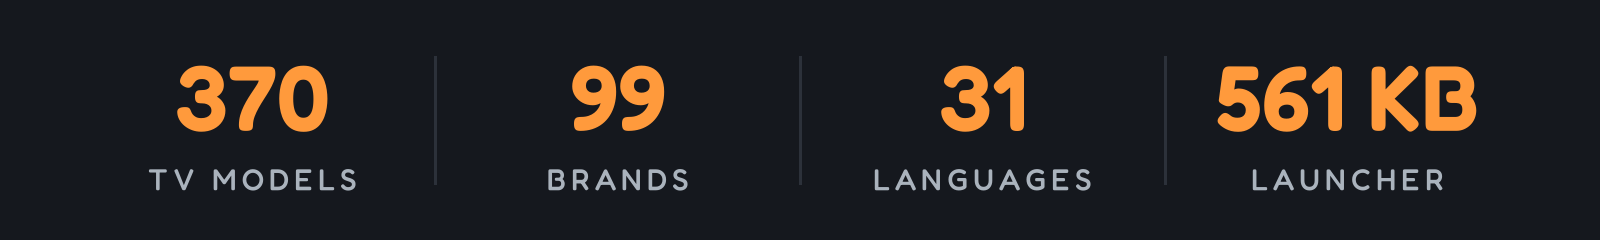
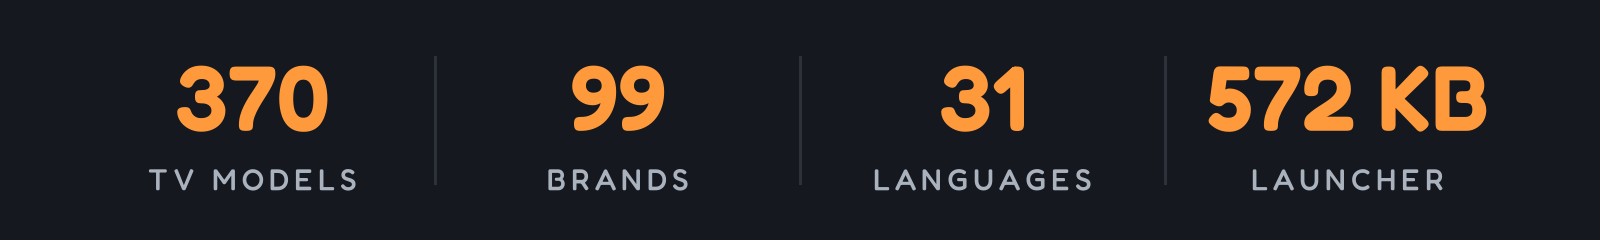
README: the launcher is about 572 KB after Round AK (585,489 B); cards redrawn

Changed region(s): [[0.75, 0.2625, 0.9375, 0.5542]]

diff --git a/tests/test_translation_recipe_gate.py b/tests/test_translation_recipe_gate.py
@@ -5,7 +5,7 @@ in `values/strings.xml`, so a full language is by far the largest thing a transl
 adds to `launcher/app/src/main/res/` - and the release APK has a hard budget:
 `.github/workflows/ci.yml`'s `launcher` job, which runs on every pull request in `launcher/`, measures
 `launcher/app/build/outputs/apk/release/app-release.apk` and fails the build at 589,824 B. The launcher
-ships just under that (README.md quotes about 561 KB), and #1271 is a full Korean translation that did
+ships just under that (README.md quotes about 572 KB), and #1271 is a full Korean translation that did
 not fit. Until now the page said nothing about it, so a translator could follow the recipe exactly and
 land a red build at a step the page never mentions.
 

diff --git a/tools/readme_stats.py b/tools/readme_stats.py
@@ -71,7 +71,7 @@ try:
 except ImportError:
     sys.exit("readme_stats.py needs Pillow: tools/venv/bin/pip install -r tools/requirements-perf.txt")
 
-STATS = [("370", "TV MODELS"), ("99", "BRANDS"), ("31", "LANGUAGES"), ("561 KB", "LAUNCHER")]
+STATS = [("370", "TV MODELS"), ("99", "BRANDS"), ("31", "LANGUAGES"), ("572 KB", "LAUNCHER")]
 W, H = 1600, 240
 img = Image.new("RGB", (W, H), "#15181e"); d = ImageDraw.Draw(img)
 def f(size, wt):

diff --git a/README.nl.md b/README.nl.md
@@ -26,7 +26,7 @@
 </p>
 
 <p align="center">
-  <a href="docs/PRESS.md"><img src="docs/card-halloween.jpg" alt="370 tv-modellen · 99 merken · 31 talen · launcher van 561 KB. Genoemd in TechCrunch, TechRadar, Tom's Guide, Mashable, Android Authority, XDA, FlatpanelsHD, It's FOSS, Phandroid, GIGAZINE, Xataka, WinFuture, Frandroid, Macitynet, Techaeris, TechPP en nog 298 media: 314 artikelen uit 44 landen. Voorheen: het standaard Google TV-startscherm met een gesponsorde advertentie. Daarna: de Clean Your TV-launcher." width="800"></a>
+  <a href="docs/PRESS.md"><img src="docs/card-halloween.jpg" alt="370 tv-modellen · 99 merken · 31 talen · launcher van 572 KB. Genoemd in TechCrunch, TechRadar, Tom's Guide, Mashable, Android Authority, XDA, FlatpanelsHD, It's FOSS, Phandroid, GIGAZINE, Xataka, WinFuture, Frandroid, Macitynet, Techaeris, TechPP en nog 298 media: 314 artikelen uit 44 landen. Voorheen: het standaard Google TV-startscherm met een gesponsorde advertentie. Daarna: de Clean Your TV-launcher." width="800"></a>
 </p>
 
 **De virale tweet:** [x.com/gathint/status/2111379569030939102](https://x.com/gathint/status/2111379569030939102)
@@ -561,7 +561,7 @@ tools/theme.sh themes/aurora                                 # push a theme; --r
 | [`tools/flamechart.py`](tools/flamechart.py) | Maakt voor een pull request een flame chart vóór en na de wijziging op basis van die traces: één baan per thread op een gedeelde tijdschaal, met het werk waarop de wijziging zich richt in magenta en met de totale duur. Optioneel, net als de trace-hulpmiddelen. [Handleiding](tools/flamechart.md). |
 | [`tools/screendiff.py`](tools/screendiff.py) | Vergelijkt schermafbeeldingen van vóór en na pixel voor pixel, laat de klok en alles wat je maskeert buiten beschouwing en slaat beide afbeeldingen op met de wifi-naam vervaagd. Optioneel, net als de trace-hulpmiddelen. [Handleiding](tools/screendiff.md). |
 | [`tools/race_calendar.py`](tools/race_calendar.py) | Schrijft de F1-kalender van dit seizoen in een thema voor de raceweekendmodus, via de gratis Jolpica-API. |
-| [`launcher/build-and-install.sh`](launcher/build-and-install.sh) | Bouwt een verkleinde release (ongeveer 561 KB), installeert deze, schakelt het startscherm om en draait de wijziging terug als de nieuwe launcher niet het startscherm wordt. |
+| [`launcher/build-and-install.sh`](launcher/build-and-install.sh) | Bouwt een verkleinde release (ongeveer 572 KB), installeert deze, schakelt het startscherm om en draait de wijziging terug als de nieuwe launcher niet het startscherm wordt. |
 
 De scripts zorgen er altijd voor dat de tv een startscherm-app behoudt: ze schakelen alleen een herkende standaardlauncher uit en slaan die app in een lijst over totdat een andere launcher op HOME reageert. Zie hieronder voor meer informatie.
 
@@ -609,7 +609,7 @@ De controle kan niet bewijzen wat de bedoeling is. `appops` laat zien dat een be
 <a id="the-launcher"></a>
 ## De launcher
 
-Een klein, native startscherm voor Android TV: **ongeveer 561 KB**, geschreven in gewone Java en ontworpen voor tv's met 1 GB RAM. Geen vervagingseffecten, geen video, geen netwerktoestemming en geen achtergrondservices.
+Een klein, native startscherm voor Android TV: **ongeveer 572 KB**, geschreven in gewone Java en ontworpen voor tv's met 1 GB RAM. Geen vervagingseffecten, geen video, geen netwerktoestemming en geen achtergrondservices.
 
 De **tv** moet Android 8.0 (API 26) of nieuwer gebruiken. `minSdk` stelt de minimale versie in tijdens het bouwen in [`launcher/app/build.gradle`](launcher/app/build.gradle). Het installatiescript vraagt vóór het bouwen de waarde van `ro.build.version.sdk` op, zodat een oudere tv beide versienummers te zien krijgt in plaats van pas bij `pm install` te mislukken. Zie [Problemen oplossen](docs/TROUBLESHOOTING.md) voor wat op zo'n tv nog mogelijk is.
 

diff --git a/README.de.md b/README.de.md
@@ -20,7 +20,7 @@
 </p>
 
 <p align="center">
-  <a href="docs/PRESS.md"><img src="docs/card-halloween.jpg" alt="370 TV-Modelle · 99 Marken · 31 Sprachen · Launcher mit 561 KB. Erwähnt in TechCrunch, TechRadar, Tom's Guide, Mashable, Android Authority, XDA, FlatpanelsHD, It's FOSS, Phandroid, GIGAZINE, Xataka, WinFuture, Frandroid, Macitynet, Techaeris, TechPP und 298 weitere: 314 Artikel aus 44 Ländern. Vorher: der Google-TV-Startbildschirm mit einer bezahlten Anzeige. Nachher: der Clean-Your-TV-Launcher." width="800"></a>
+  <a href="docs/PRESS.md"><img src="docs/card-halloween.jpg" alt="370 TV-Modelle · 99 Marken · 31 Sprachen · Launcher mit 572 KB. Erwähnt in TechCrunch, TechRadar, Tom's Guide, Mashable, Android Authority, XDA, FlatpanelsHD, It's FOSS, Phandroid, GIGAZINE, Xataka, WinFuture, Frandroid, Macitynet, Techaeris, TechPP und 298 weitere: 314 Artikel aus 44 Ländern. Vorher: der Google-TV-Startbildschirm mit einer bezahlten Anzeige. Nachher: der Clean-Your-TV-Launcher." width="800"></a>
 </p>
 
 ## Einstieg
@@ -192,7 +192,7 @@ tools/theme.sh themes/aurora                                 # ein Theme aufspie
 | [`tools/flamechart.py`](tools/flamechart.py) | Zeichnet aus diesen Traces ein Vorher/Nachher-Flammendiagramm für einen Pull Request: eine Spur je Thread auf gemeinsamer Zeitachse, die Arbeit, die eine Änderung trifft, in Magenta mit ihrer Summe. Optional, wie die Trace-Werkzeuge. [Anleitung](tools/flamechart.md). |
 | [`tools/screendiff.py`](tools/screendiff.py) | Vergleicht ein Vorher- und ein Nachher-Bild Pixel für Pixel, lässt die Uhr oder das aus, was du maskierst, und schreibt das Paar mit unkenntlich gemachtem WLAN-Namen. Optional, wie die Trace-Werkzeuge. [Anleitung](tools/screendiff.md). |
 | [`tools/race_calendar.py`](tools/race_calendar.py) | Schreibt den F1-Kalender dieser Saison in ein Theme für den Rennwochenend-Modus, aus der freien Jolpica-API. |
-| [`launcher/build-and-install.sh`](launcher/build-and-install.sh) | Baut ein geschrumpftes Release (etwa 561 KB), installiert es, schaltet Home um und rollt zurück, wenn Home nicht darauf landet. |
+| [`launcher/build-and-install.sh`](launcher/build-and-install.sh) | Baut ein geschrumpftes Release (etwa 572 KB), installiert es, schaltet Home um und rollt zurück, wenn Home nicht darauf landet. |
 
 Die Skripte lassen den Fernseher nie ohne Home-App: sie deaktivieren nur einen Hersteller-Launcher, den sie erkennen,
 und überspringen die Home-App in einer Liste, bis ein anderer Launcher auf HOME antwortet. Eigene Listen können außerhalb
@@ -247,7 +247,7 @@ Debloat-Liste. Was die Prüfung nicht kann, ist Absicht beweisen: [docs/privacy.
 
 ## Der Launcher
 
-Ein kleiner nativer Startbildschirm für Android TV: **etwa 561 KB**, einfaches Java, gebaut für Fernseher mit 1 GB RAM.
+Ein kleiner nativer Startbildschirm für Android TV: **etwa 572 KB**, einfaches Java, gebaut für Fernseher mit 1 GB RAM.
 Kein Weichzeichnen, kein Video, keine Netzwerkberechtigung, keine Hintergrunddienste. Der **Fernseher** braucht Android 8.0 (API 26)
 oder neuer, das `minSdk` in [`launcher/app/build.gradle`](launcher/app/build.gradle); was auf einem älteren
 Gerät übrig bleibt, steht in der [Fehlerbehebung](docs/TROUBLESHOOTING.md).

diff --git a/README.md b/README.md
@@ -24,7 +24,7 @@
 </p>
 
 <p align="center">
-  <a href="docs/PRESS.md"><img src="docs/card-halloween.jpg" alt="370 TV models · 99 brands · 31 languages · 561 KB launcher. Featured in TechCrunch, TechRadar, Tom's Guide, Mashable, Android Authority, XDA, FlatpanelsHD, It's FOSS, Phandroid, GIGAZINE, Xataka, WinFuture, Frandroid, Macitynet, Techaeris, TechPP and 298 more: 314 articles from 44 countries. Before: stock Google TV home with a sponsored ad. After: the Clean Your TV launcher." width="800"></a>
+  <a href="docs/PRESS.md"><img src="docs/card-halloween.jpg" alt="370 TV models · 99 brands · 31 languages · 572 KB launcher. Featured in TechCrunch, TechRadar, Tom's Guide, Mashable, Android Authority, XDA, FlatpanelsHD, It's FOSS, Phandroid, GIGAZINE, Xataka, WinFuture, Frandroid, Macitynet, Techaeris, TechPP and 298 more: 314 articles from 44 countries. Before: stock Google TV home with a sponsored ad. After: the Clean Your TV launcher." width="800"></a>
 </p>
 
 ## Start here
@@ -205,7 +205,7 @@ tools/theme.sh themes/aurora                                 # push a theme; --r
 | [`tools/flamechart.py`](tools/flamechart.py) | Draws a before/after flame chart from those traces, for a pull request: one lane per thread on a shared time scale, the work a change targets in magenta with its total. Optional, like the trace tools. [Guide](tools/flamechart.md). |
 | [`tools/screendiff.py`](tools/screendiff.py) | Compares a before and an after screenshot pixel by pixel, leaving out the clock or anything you mask, and writes the pair with your Wi-Fi name blurred. Optional, like the trace tools. [Guide](tools/screendiff.md). |
 | [`tools/race_calendar.py`](tools/race_calendar.py) | Writes this season's F1 calendar into a theme for race-weekend mode, from the free Jolpica API. |
-| [`launcher/build-and-install.sh`](launcher/build-and-install.sh) | Builds a shrunk release (about 561 KB), installs it, switches Home, and rolls back if Home does not land on it. |
+| [`launcher/build-and-install.sh`](launcher/build-and-install.sh) | Builds a shrunk release (about 572 KB), installs it, switches Home, and rolls back if Home does not land on it. |
 
 The scripts never leave the TV without a Home app: they only disable a stock launcher they recognise,
 and skip the Home app in a list until another launcher answers HOME. Your own lists can live outside
@@ -268,7 +268,7 @@ debloat list. What the audit cannot do is prove intent: [docs/privacy.md](docs/p
 
 ## The launcher
 
-A small native home screen for Android TV: **about 561 KB**, plain Java, built for TVs with 1 GB of RAM.
+A small native home screen for Android TV: **about 572 KB**, plain Java, built for TVs with 1 GB of RAM.
 No blur, no video, no network permission, no background services. The **TV** needs Android 8.0 (API 26)
 or newer, the `minSdk` in [`launcher/app/build.gradle`](launcher/app/build.gradle); what is left on an older
 set is in [Troubleshooting](docs/TROUBLESHOOTING.md).

diff --git a/docs/workflows/translation.md b/docs/workflows/translation.md
@@ -32,7 +32,7 @@
 7. Check the size gate before you push. A language's strings ship in the release APK, and that APK has to
    stay under 589,824 B (576 KB): `launcher/app/build/outputs/apk/release/app-release.apk`, measured with
    `stat -c %s` on Linux or `stat -f %z` on macOS, and checked by the "Launcher build and unit tests" job
-   on every pull request. `README.md` quotes the launcher at about 561 KB, so a full language can be the
+   on every pull request. `README.md` quotes the launcher at about 572 KB, so a full language can be the
    difference between green and a failed build. A language that does not fit is a maintainer decision, not
    something to land by dropping strings ([#1271](https://github.com/Gathin23/cleanyourtv/issues/1271)).
 8. Build the launcher, set the TV's language (Android 13+: `tools/tv.py 'cmd locale set-app-locales com.gathin.tvhome --locales <tag>'`)

diff --git a/docs/launcher.md b/docs/launcher.md
@@ -2,7 +2,7 @@
 
 [Back to the README](../README.md#the-launcher)
 
-A small native home screen for Android TV: **about 561 KB**, plain Java, built for TVs with 1 GB of RAM.
+A small native home screen for Android TV: **about 572 KB**, plain Java, built for TVs with 1 GB of RAM.
 No blur, no video, no network permission, no background services. This page has the details the
 README leaves out: settings, languages, remote keys and building it yourself. Every key a theme can
 set is in [`themes/README.md`](../themes/README.md#keys), and the opt-in switches with their

diff --git a/.github/maintainer/MAINTAINER.md b/.github/maintainer/MAINTAINER.md
@@ -1,7 +1,7 @@
 # How CleanYourTV PRs are reviewed
 
 CleanYourTV (Gathin23/cleanyourtv) is a prompt plus tools that debloat Android TV / Google TV / Fire TV over
-ADB and a tiny native launcher (`launcher/`, plain Java, ~561 KB, for 1 GB TVs). Contributors mostly add
+ADB and a tiny native launcher (`launcher/`, plain Java, ~572 KB, for 1 GB TVs). Contributors mostly add
 tested TV lists under `examples/<tv>/`, translations, docs, small launcher options, themes, add-ons and tools.
 
 ## The policy: a small core plus a well-indexed hub
